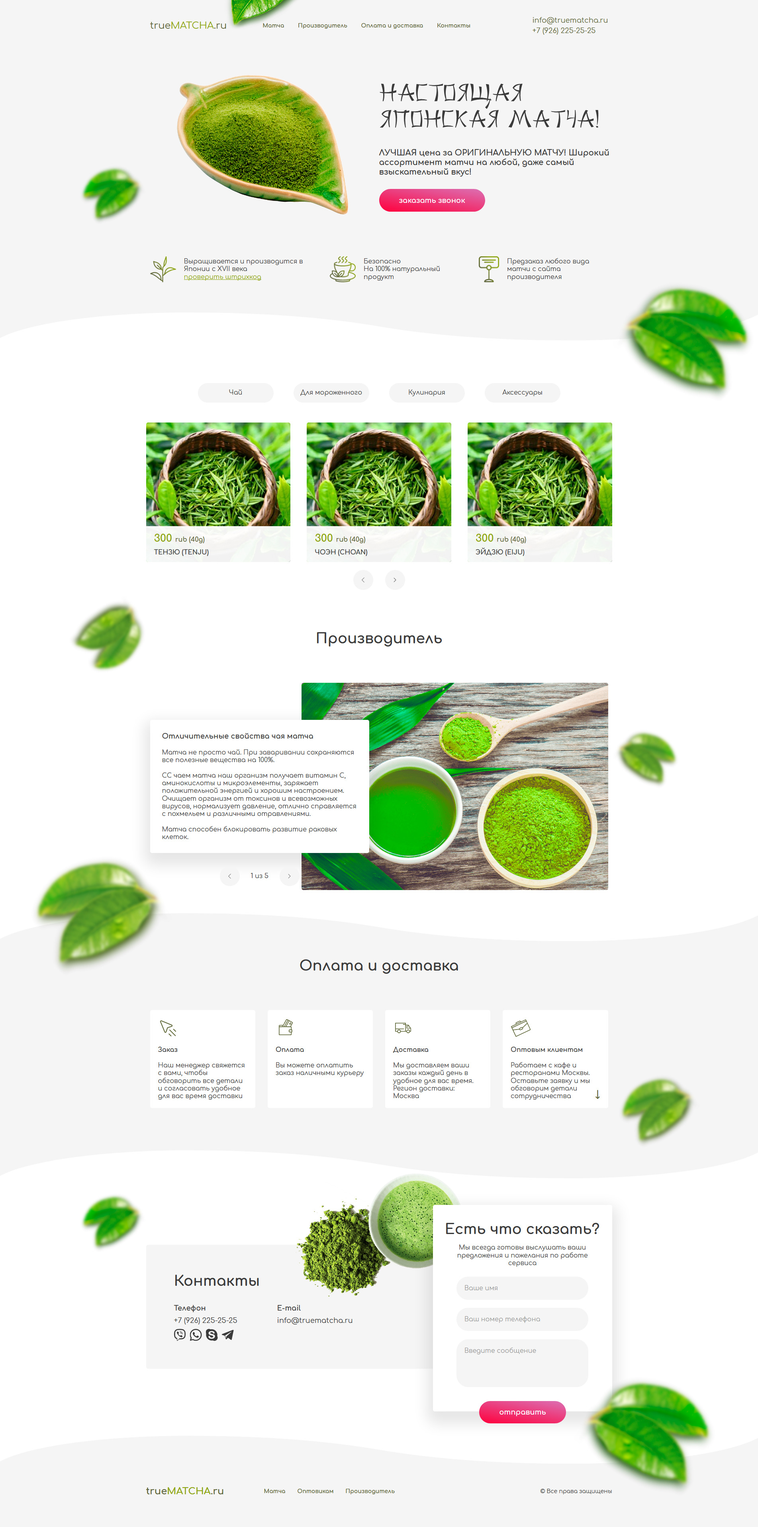
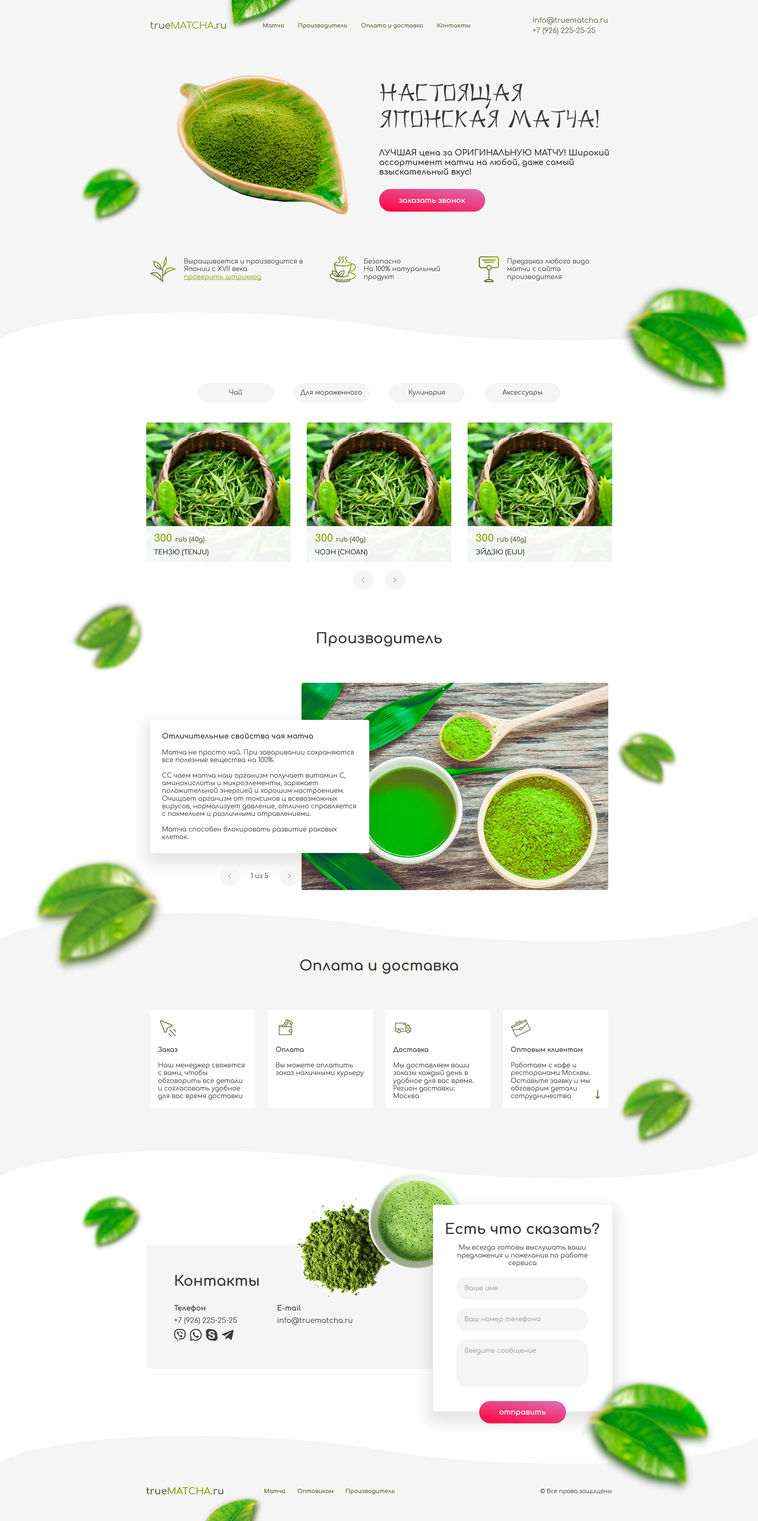
finish leafs

diff --git a/css/main.min.css b/css/main.min.css
@@ -1,1 +1,1 @@
-a,abbr,acronym,address,applet,article,aside,audio,b,big,blockquote,body,canvas,caption,center,cite,code,dd,del,details,dfn,div,dl,dt,em,embed,fieldset,figcaption,figure,footer,form,h1,h2,h3,h4,h5,h6,header,hgroup,html,i,iframe,img,ins,kbd,label,legend,li,mark,menu,nav,object,ol,output,p,pre,q,ruby,s,samp,section,small,span,strike,strong,sub,summary,sup,table,tbody,td,tfoot,th,thead,time,tr,tt,u,ul,var,video{margin:0;padding:0;border:0;font-size:100%;font:inherit;vertical-align:baseline}article,aside,details,figcaption,figure,footer,header,hgroup,menu,nav,section{display:block}body{line-height:1}ol,ul{list-style:none}blockquote,q{quotes:none}blockquote:after,blockquote:before,q:after,q:before{content:'';content:none}table{border-collapse:collapse;border-spacing:0}.clearfix::after{display:block;content:"";clear:both}button,input,select,textarea{outline:0}html{-webkit-box-sizing:border-box;box-sizing:border-box;-ms-overflow-style:scrollbar}*,::after,::before{-webkit-box-sizing:border-box;box-sizing:border-box}@-ms-viewport{width:device-width}@font-face{font-family:Comfortaa;font-style:normal;font-weight:400;src:url(../fonts/Comfortaa-Regular.ttf) format("truetype")}@font-face{font-family:Comfortaa;font-style:normal;font-weight:900;src:url(../fonts/Comfortaa-Bold.ttf) format("truetype")}@font-face{font-family:China;font-style:normal;font-weight:400;src:url(../fonts/China.ttf) format("truetype")}body{background:#fff;font-family:Comfortaa,Arial,sans-serif;font-size:16px;font-weight:400;line-height:1.2;color:#3b3b3b}.wrapper{max-width:2500px;min-width:360px;width:100%;overflow:hidden}.content{max-width:1170px;margin:0 auto;padding-left:10px;padding-right:10px}.container{width:100%}.separatop{height:85px;width:100%}.separatop.top{background:url(../images/border-sections-top.svg) center center no-repeat;background-size:cover}.separatop.bottom{background:url(../images/border-sections-bottom.svg) center center no-repeat;background-size:cover}.leaf{position:absolute;display:block}.leaf#l-01{top:-35px;left:195px;width:221px;height:109px;background:url(../images/leafs/01.png) center center no-repeat;background-size:cover}.leaf#l-02{bottom:80px;left:-168px;width:168px;height:149px;background:url(../images/leafs/02.png) center center no-repeat;background-size:cover}.leaf#l-03{bottom:-365px;right:-357px;width:357px;height:301px;background:url(../images/leafs/03.png) center center no-repeat;background-size:cover}.leaf#l-04{top:-35px;left:-194px;width:194px;height:193px;background:url(../images/leafs/04.png) center center no-repeat;background-size:cover}.leaf#l-05{top:300px;right:-168px;width:168px;height:149px;background:url(../images/leafs/05.png) center center no-repeat;background-size:cover}.leaf#l-06{bottom:-215px;left:-290px;width:356px;height:301px;background:url(../images/leafs/06.png) center center no-repeat;background-size:cover}.leaf#l-07{bottom:0;right:-220px;width:205px;height:184px;background:url(../images/leafs/07.png) center center no-repeat;background-size:cover}.leaf#l-08{top:-130px;left:-168px;width:168px;height:149px;background:url(../images/leafs/02.png) center center no-repeat;background-size:cover}.leaf#l-09{bottom:-320px;right:-260px;width:357px;height:301px;background:url(../images/leafs/03.png) center center no-repeat;background-size:cover}h1{font-family:China,Arial,sans-serif;font-weight:400;font-size:55px;color:#3b3b3b}h2{font-size:36px;color:#3b3b3b;font-weight:700;text-align:center}.button{display:inline-block;background-image:linear-gradient(10deg,#ff003c 0,#db71b4 100%);color:#fff;border-radius:50px;padding:18px 50px;font-size:18px;font-weight:700;cursor:pointer;-webkit-transition-duration:.2s;transition-duration:.2s}.button:hover{-webkit-box-shadow:0 17px 35px 14px rgba(0,0,0,.1);box-shadow:0 17px 35px 14px rgba(0,0,0,.1)}.arrow{width:50px;height:50px;background:#f5f5f5;border-radius:50%;cursor:pointer;-webkit-transition-duration:.2s;transition-duration:.2s;display:-webkit-box;display:-ms-flexbox;display:flex;-webkit-box-pack:center;-ms-flex-pack:center;justify-content:center;-webkit-box-align:center;-ms-flex-align:center;align-items:center}.arrow:hover{-webkit-box-shadow:0 17px 35px 14px rgba(0,0,0,.1);box-shadow:0 17px 35px 14px rgba(0,0,0,.1);background-image:linear-gradient(8deg,green 0,#58b52b 100%)}.arrow:hover svg path{fill:#fff}.arrow svg{width:12px}.arrow svg path{fill:#3b3b3b}#btn-menu{position:relative;display:none;-webkit-box-pack:center;-ms-flex-pack:center;justify-content:center;-webkit-box-orient:vertical;-webkit-box-direction:normal;-ms-flex-direction:column;flex-direction:column;-webkit-box-align:center;-ms-flex-align:center;align-items:center;background:#f5f5f5;border-radius:50%;cursor:pointer;-webkit-transition-duration:.2s;transition-duration:.2s}#btn-menu .line{width:30px;height:3px;background:#5e653a;margin-bottom:5px;-webkit-transition-duration:.2s;transition-duration:.2s}#btn-menu .line:last-child{margin-bottom:0}#btn-menu:hover .line{background:#8da511}header{background:#f5f5f5}header a{color:#5e653a;text-decoration:none}header .content{position:relative;display:-webkit-box;display:-ms-flexbox;display:flex;-webkit-box-pack:justify;-ms-flex-pack:justify;justify-content:space-between;-webkit-box-align:center;-ms-flex-align:center;align-items:center;padding-top:40px;padding-bottom:40px}header a.logo{font-size:24px;font-weight:70;color:#5e653a}header a.logo span{text-transform:uppercase;font-size:24px;color:#8da511}header nav.menu{display:block;width:100%;padding-left:90px}header nav.menu a{position:relative;margin-right:30px;font-size:14px;font-weight:700;color:#5e653a;-webkit-transition-duration:.2s;transition-duration:.2s}header nav.menu a:last-child{margin-right:0}header nav.menu a:before{-webkit-transition-duration:.2s;transition-duration:.2s;content:'';position:absolute;width:5px;height:5px;left:-10px;top:4px;border-radius:50%;background:0 0}header nav.menu a:hover{color:#8da511}header nav.menu a:hover:before{background:#8da511}header .contacts{font-size:18px;color:#5e653a}header .contacts p:first-child{margin-bottom:5px}#banner{background:#f5f5f5}#banner .content{position:relative;padding:60px 0 100px 0;display:-webkit-box;display:-ms-flexbox;display:flex;-webkit-box-pack:justify;-ms-flex-pack:justify;justify-content:space-between;-webkit-box-align:center;-ms-flex-align:center;align-items:center}#banner .content .banner-image,#banner .content .banner-text{width:50%}#banner .content .banner-image{text-align:center}#banner .content .banner-image img{height:350px}#banner .content .banner-text{color:#3b3b3b}#banner .content .banner-text .bt-title{margin-bottom:40px}#banner .content .banner-text .bt-lable{font-size:20px;font-weight:700;padding-bottom:30px;text-align:left}#banner .content .banner-text .bt-lable span{text-transform:uppercase}#worth{background:#f5f5f5;margin-bottom:-2px}#worth .content{padding-bottom:70px;display:-webkit-box;display:-ms-flexbox;display:flex;-webkit-box-pack:justify;-ms-flex-pack:justify;justify-content:space-between;-webkit-box-align:center;-ms-flex-align:center;align-items:center}#worth .content .w-col{display:-webkit-box;display:-ms-flexbox;display:flex;-webkit-box-align:center;-ms-flex-align:center;align-items:center;width:30%}#worth .content .w-col:first-child{width:35%}#worth .content .w-col:first-child .wc-img{margin-left:0}#worth .content .w-col .wc-img{width:65px;height:65px;margin:0 20px}#worth .content .w-col .wc-img img{display:block;height:100%}#worth .content .w-col .wc-text{font-size:16px;color:#3b3b3b}#worth .content .w-col .wc-text a{color:#8da511;-webkit-transition-duration:.2s;transition-duration:.2s}#worth .content .w-col .wc-text a:hover{color:#5e653a}#catalog{background:#fff}#catalog .content{padding:100px 0 50px 0}#catalog .catalog-btn-group{display:-webkit-box;display:-ms-flexbox;display:flex;-webkit-box-pack:center;-ms-flex-pack:center;justify-content:center;margin-bottom:50px}#catalog .catalog-btn-group .button{width:190px;padding:15px 0;font-size:16px;font-weight:400;color:#3b3b3b;background:#f5f5f5;margin-right:50px;text-align:center;-webkit-transition-duration:.2s;transition-duration:.2s}#catalog .catalog-btn-group .button:last-child{margin-right:0}#catalog .catalog-btn-group .button:hover{color:#fff;-webkit-transition-duration:.2s;transition-duration:.2s;background-image:linear-gradient(8deg,green 0,#58b52b 100%)}#catalog .catalog-content{display:-webkit-box;display:-ms-flexbox;display:flex;-webkit-box-pack:justify;-ms-flex-pack:justify;justify-content:space-between;-ms-flex-wrap:wrap;flex-wrap:wrap}#catalog .catalog-content .cc-item{position:relative;width:31%;height:350px;margin-bottom:20px;border-radius:5px;overflow:hidden;-webkit-transition-duration:.2s;transition-duration:.2s}#catalog .catalog-content .cc-item:hover{-webkit-box-shadow:0 17px 35px 14px rgba(0,0,0,.1);box-shadow:0 17px 35px 14px rgba(0,0,0,.1)}#catalog .catalog-content .cc-item:hover .cci-descriptoin{top:30%}#catalog .catalog-content .cc-item .cci-descriptoin{position:absolute;top:260px;bottom:auto;height:100%;width:100%;padding:15px 20px;-webkit-transition-duration:.2s;transition-duration:.2s;background:rgba(255,255,255,.95)}#catalog .catalog-content .cc-item .cci-descriptoin .price{font-size:26px;font-weight:700;color:#8da511;margin-bottom:10px}#catalog .catalog-content .cc-item .cci-descriptoin .price span{font-size:16px;color:#5e653a}#catalog .catalog-content .cc-item .cci-descriptoin .title{margin-bottom:15px;font-weight:700;text-transform:uppercase}#catalog .catalog-navigation{display:-webkit-box;display:-ms-flexbox;display:flex;-webkit-box-pack:center;-ms-flex-pack:center;justify-content:center}#catalog .catalog-navigation .arrow.left{margin-right:30px}#manufacture{background:#fff;padding-bottom:50px}#manufacture .content{position:relative;padding-top:50px}#manufacture h2{margin-bottom:90px}#manufacture .m-wrapper{position:relative;width:100%;height:520px}#manufacture .m-img{position:absolute;top:0;bottom:0;right:0;width:770px;background:url(../images/manufacture.png) center center no-repeat;background-size:cover;border-radius:5px;overflow:hidden}#manufacture .m-slider{position:absolute;top:0;bottom:0;left:0;width:550px;display:-webkit-box;display:-ms-flexbox;display:flex;-webkit-box-align:center;-ms-flex-align:center;align-items:center}#manufacture .m-slider .ms-item{width:100%;background:#fff;padding:30px;border-radius:5px;overflow:hidden;-webkit-transition-duration:.2s;transition-duration:.2s;-webkit-box-shadow:0 17px 35px 14px rgba(0,0,0,.1);box-shadow:0 17px 35px 14px rgba(0,0,0,.1)}#manufacture .m-slider .ms-item .title{font-size:18px;font-weight:700;margin-bottom:20px}#manufacture .m-slider .ms-item p{font-size:16px;margin-bottom:20px}#manufacture .m-slider .ms-item p:last-child{margin-bottom:0}#manufacture .m-slider .ms-btn-group{position:absolute;width:100%;bottom:0;left:0;right:0;display:-webkit-box;display:-ms-flexbox;display:flex;-webkit-box-pack:center;-ms-flex-pack:center;justify-content:center;-webkit-box-align:center;-ms-flex-align:center;align-items:center;padding-bottom:10px}#manufacture .m-slider .ms-btn-group #lable{width:100px;text-align:center}#payment{margin-top:-2px;margin-bottom:-2px;background:#f5f5f5}#payment .content{position:relative}#payment h2{padding:35px 0 90px 0}#payment .p-wrapper{padding-bottom:100px;display:-webkit-box;display:-ms-flexbox;display:flex;-webkit-box-pack:justify;-ms-flex-pack:justify;justify-content:space-between}#payment .p-wrapper .p-item{position:relative;width:23%;padding:20px;border-radius:5px;overflow:hidden;background:#fff;-webkit-transition-duration:.2s;transition-duration:.2s}#payment .p-wrapper .p-item p{font-weight:400}#payment .p-wrapper .p-item:hover{-webkit-box-shadow:0 17px 35px 14px rgba(0,0,0,.1);box-shadow:0 17px 35px 14px rgba(0,0,0,.1);color:#fff;background-image:linear-gradient(8deg,green 0,#58b52b 100%)}#payment .p-wrapper .p-item:hover .p-down{color:#fff}#payment .p-wrapper .p-item:hover .icon.order{background:url(../images/order-white.png) center center no-repeat;background-size:cover}#payment .p-wrapper .p-item:hover .icon.pay{background:url(../images/pay-white.png) center center no-repeat;background-size:cover}#payment .p-wrapper .p-item:hover .icon.delivery{background:url(../images/delivery-white.png) center center no-repeat;background-size:cover}#payment .p-wrapper .p-item:hover .icon.wholesale{background:url(../images/wholesale-white.png) center center no-repeat;background-size:cover}#payment .p-wrapper .p-item .icon{width:50px;height:50px;margin-bottom:20px;-webkit-transition-duration:.2s;transition-duration:.2s}#payment .p-wrapper .p-item .icon.order{background:url(../images/order.png) center center no-repeat;background-size:cover}#payment .p-wrapper .p-item .icon.pay{background:url(../images/pay.png) center center no-repeat;background-size:cover}#payment .p-wrapper .p-item .icon.delivery{background:url(../images/delivery.png) center center no-repeat;background-size:cover}#payment .p-wrapper .p-item .icon.wholesale{background:url(../images/wholesale.png) center center no-repeat;background-size:cover}#payment .p-wrapper .p-item .title{font-weight:700;margin-bottom:20px}#payment .p-wrapper .p-item .p-down{position:absolute;bottom:20px;right:20px;text-decoration:none;color:#5e653a;font-size:26px;-webkit-transition-duration:.2s;transition-duration:.2s}#contacts{padding:160px 0;background:#fff}#contacts .content{position:relative;padding:70px;background:#f5f5f5;border-radius:5px}#contacts h2{text-align:left;margin-bottom:35px}#contacts .contact-img{position:absolute;left:50%;top:-180px;-webkit-transform:translateX(-50%);transform:translateX(-50%);width:423px;height:313px;background:url(../images/contacts.png) center center no-repeat;background-size:cover}#contacts .con-wrapper{display:-webkit-box;display:-ms-flexbox;display:flex}#contacts .con-wrapper .cont-phone{margin-right:100px}#contacts .con-wrapper .cont-phone .social{display:-webkit-box;display:-ms-flexbox;display:flex}#contacts .con-wrapper .cont-phone .social a{display:block;width:30px;height:30px;margin-right:10px}#contacts .con-wrapper .cont-phone .social a:last-child{margin-right:0}#contacts .con-wrapper .cont-phone .social a:hover svg path{fill:#8da511}#contacts .con-wrapper .cont-phone .social a svg{width:100%;height:100%}#contacts .con-wrapper .cont-phone .social a svg path{-webkit-transition-duration:.2s;transition-duration:.2s;fill:#3b3b3b}#contacts .con-wrapper p{font-size:18px;color:#3b3b3b;margin-bottom:10px}#contacts .con-wrapper p span{font-weight:700}#contacts .con-wrapper p a{text-decoration:none;color:#3b3b3b;-webkit-transition-duration:.2s;transition-duration:.2s}#contacts .con-wrapper p a:hover{color:#8da511}#contacts .feedback{position:absolute;top:-100px;right:0;width:450px;background:#fff;border-radius:5px;padding:40px 30px;-webkit-box-shadow:0 17px 35px 14px rgba(0,0,0,.1);box-shadow:0 17px 35px 14px rgba(0,0,0,.1);text-align:center}#contacts .feedback h2{margin-bottom:15px}#contacts .feedback p{text-align:center;margin-bottom:25px}#contacts .feedback input,#contacts .feedback textarea{display:inline-block;width:85%;margin-bottom:20px;padding:20px;font-size:16px;font-family:Comfortaa,Arial,sans-serif;color:#3b3b3b;border-radius:30px;border:none;background:#f5f5f5}#contacts .feedback textarea{height:120px;resize:none}#contacts .feedback button{position:absolute;bottom:-30px;left:50%;-webkit-transform:translateX(-50%);transform:translateX(-50%);font-size:18px;font-weight:700;text-transform:lowercase;font-family:Comfortaa,Arial,sans-serif;border:none}footer{margin-top:-2px;background:#f5f5f5}footer .content{display:-webkit-box;display:-ms-flexbox;display:flex;-webkit-box-align:center;-ms-flex-align:center;align-items:center;padding:50px 0 75px 0}footer a.logo{text-decoration:none;color:#5e653a;font-size:24px;font-weight:700;margin-right:100px}footer a.logo span{color:#8da511;text-transform:uppercase}footer .menu{width:70%}footer .menu a{position:relative;text-decoration:none;color:#5e653a;-webkit-transition-duration:.2s;transition-duration:.2s;margin-right:25px;font-size:14px;font-weight:700}footer .menu a:hover{color:#8da511}footer .menu a:hover:before{background:#8da511}footer .menu a:before{-webkit-transition-duration:.2s;transition-duration:.2s;content:'';position:absolute;width:5px;height:5px;left:-10px;top:4px;border-radius:50%;background:0 0}footer p{display:block;width:300px;text-align:right;font-size:14px}@media (max-width:992px){.separatop{display:none}h2{font-size:30px}.leaf{display:none}header .content{padding-top:15px;padding-bottom:15px}header .contacts{display:none}header nav.menu{display:none;position:absolute;top:100%;left:0;right:0;padding:0;border-top:1px solid #d7d7d7;border-bottom:1px solid #d7d7d7;background:#fff;text-align:right}header nav.menu a{display:block;padding:20px;margin-right:0;padding-right:30px;font-size:18px;border-bottom:1px solid #f0f0f0}header nav.menu a:before{display:none}header nav.menu a:last-child{border-bottom:none}header #btn-menu{display:-webkit-box;display:-ms-flexbox;display:flex}#banner .content{display:block;padding:15px}#banner .content .banner-image{width:100%}#banner .content .banner-image img{height:200px}#banner .content .banner-text{width:100%;text-align:center;margin-bottom:15px}#banner .content .banner-text .bt-title{font-size:50px;margin:15px 0}#banner .content .banner-text .bt-lable{text-align:center;padding:0;margin-bottom:15px}#banner .content .button{padding:15px 30px}#worth .content{display:block;padding-bottom:15px}#worth .content .w-col{width:100%!important;margin-bottom:15px}#worth .content .w-col:last-child{margin-bottom:0}#worth .content .w-col .wc-img{margin:0;margin-right:20px}#worth .content .w-col .wc-img img{margin:0}#catalog .content{padding:15px;padding-top:25px}#catalog .content .catalog-btn-group{display:block;margin-bottom:15px}#catalog .content .catalog-btn-group .button{display:block;width:100%;text-align:center;margin:0;margin-bottom:10px}#catalog .content .catalog-content .cc-item{width:100%}#manufacture{padding:0}#manufacture .content{padding:15px 0 0 0}#manufacture .content h2{margin:10px 0}#manufacture .content .m-wrapper{padding:40px 15px;height:auto}#manufacture .content .m-wrapper .m-img{border-radius:0;width:100%;height:100%}#manufacture .content .m-wrapper .m-slider{display:block;position:relative;width:100%}#manufacture .content .m-wrapper .m-slider .ms-item{padding:15px}#manufacture .content .m-wrapper .m-slider .ms-btn-group{position:relative;padding:0;margin-top:15px}#manufacture .content .m-wrapper .m-slider .ms-btn-group #lable{font-weight:700;color:#fff}#payment .content{padding-top:25px;padding-bottom:15px}#payment .content h2{padding:0;margin-bottom:15px}#payment .content .p-wrapper{display:block;padding:0}#payment .content .p-wrapper .p-item{width:100%;padding:15px;margin-bottom:15px}#payment .content .p-wrapper .p-item .icon{margin-bottom:10px}#payment .content .p-wrapper .p-item .title{margin-bottom:10px}#contacts{padding:0}#contacts .content{padding:10px}#contacts .content h2{text-align:center;margin-bottom:20px}#contacts .content .contact-img{display:none}#contacts .content .con-wrapper{display:block}#contacts .content .con-wrapper .cont-phone{margin:0;margin-bottom:30px}#contacts .content .con-wrapper .email{margin-bottom:30px}#contacts .content .feedback{position:relative;top:0;width:100%;padding:15px}#contacts .content .feedback h2{margin-bottom:10px}#contacts .content .feedback p{margin-bottom:10px}#contacts .content .feedback input,#contacts .content .feedback textarea{width:100%;margin-bottom:15px;padding:15px}#contacts .content .feedback .button{padding:15px 30px}footer .content{padding-top:100px;padding-bottom:15px;display:block}footer .content a.logo{display:block;text-align:center;margin-right:0;margin-bottom:10px}footer .content .menu{display:none}footer .content p{width:100%;margin:0;text-align:center}}
+a,abbr,acronym,address,applet,article,aside,audio,b,big,blockquote,body,canvas,caption,center,cite,code,dd,del,details,dfn,div,dl,dt,em,embed,fieldset,figcaption,figure,footer,form,h1,h2,h3,h4,h5,h6,header,hgroup,html,i,iframe,img,ins,kbd,label,legend,li,mark,menu,nav,object,ol,output,p,pre,q,ruby,s,samp,section,small,span,strike,strong,sub,summary,sup,table,tbody,td,tfoot,th,thead,time,tr,tt,u,ul,var,video{margin:0;padding:0;border:0;font-size:100%;font:inherit;vertical-align:baseline}article,aside,details,figcaption,figure,footer,header,hgroup,menu,nav,section{display:block}body{line-height:1}ol,ul{list-style:none}blockquote,q{quotes:none}blockquote:after,blockquote:before,q:after,q:before{content:'';content:none}table{border-collapse:collapse;border-spacing:0}.clearfix::after{display:block;content:"";clear:both}button,input,select,textarea{outline:0}html{-webkit-box-sizing:border-box;box-sizing:border-box;-ms-overflow-style:scrollbar}*,::after,::before{-webkit-box-sizing:border-box;box-sizing:border-box}@-ms-viewport{width:device-width}@font-face{font-family:Comfortaa;font-style:normal;font-weight:400;src:url(../fonts/Comfortaa-Regular.ttf) format("truetype")}@font-face{font-family:Comfortaa;font-style:normal;font-weight:900;src:url(../fonts/Comfortaa-Bold.ttf) format("truetype")}@font-face{font-family:China;font-style:normal;font-weight:400;src:url(../fonts/China.ttf) format("truetype")}body{background:#fff;font-family:Comfortaa,Arial,sans-serif;font-size:16px;font-weight:400;line-height:1.2;color:#3b3b3b}.wrapper{max-width:2500px;min-width:360px;width:100%;overflow:hidden}.content{max-width:1170px;margin:0 auto;padding-left:10px;padding-right:10px}.container{width:100%}.separatop{height:85px;width:100%}.separatop.top{background:url(../images/border-sections-top.svg) center center no-repeat;background-size:cover}.separatop.bottom{background:url(../images/border-sections-bottom.svg) center center no-repeat;background-size:cover}.leaf{position:absolute;display:block}.leaf#l-01{top:-35px;left:195px;width:221px;height:109px;background:url(../images/leafs/01.png) center center no-repeat;background-size:cover}.leaf#l-02{bottom:80px;left:-168px;width:168px;height:149px;background:url(../images/leafs/02.png) center center no-repeat;background-size:cover}.leaf#l-03{bottom:-365px;right:-357px;width:357px;height:301px;background:url(../images/leafs/03.png) center center no-repeat;background-size:cover}.leaf#l-04{top:-35px;left:-194px;width:194px;height:193px;background:url(../images/leafs/04.png) center center no-repeat;background-size:cover}.leaf#l-05{top:300px;right:-168px;width:168px;height:149px;background:url(../images/leafs/05.png) center center no-repeat;background-size:cover}.leaf#l-06{bottom:-215px;left:-290px;width:356px;height:301px;background:url(../images/leafs/06.png) center center no-repeat;background-size:cover}.leaf#l-07{bottom:0;right:-220px;width:205px;height:184px;background:url(../images/leafs/07.png) center center no-repeat;background-size:cover}.leaf#l-08{top:-130px;left:-168px;width:168px;height:149px;background:url(../images/leafs/02.png) center center no-repeat;background-size:cover}.leaf#l-09{bottom:-320px;right:-260px;width:357px;height:301px;background:url(../images/leafs/03.png) center center no-repeat;background-size:cover}.leaf#l-10{bottom:0;left:145px;width:151px;height:64px;background:url(../images/leafs/08.png) center center no-repeat;background-size:cover}h1{font-family:China,Arial,sans-serif;font-weight:400;font-size:55px;color:#3b3b3b}h2{font-size:36px;color:#3b3b3b;font-weight:700;text-align:center}.button{display:inline-block;background-image:linear-gradient(10deg,#ff003c 0,#db71b4 100%);color:#fff;border-radius:50px;padding:18px 50px;font-size:18px;font-weight:700;cursor:pointer;-webkit-transition-duration:.2s;transition-duration:.2s}.button:hover{-webkit-box-shadow:0 17px 35px 14px rgba(0,0,0,.1);box-shadow:0 17px 35px 14px rgba(0,0,0,.1)}.arrow{width:50px;height:50px;background:#f5f5f5;border-radius:50%;cursor:pointer;-webkit-transition-duration:.2s;transition-duration:.2s;display:-webkit-box;display:-ms-flexbox;display:flex;-webkit-box-pack:center;-ms-flex-pack:center;justify-content:center;-webkit-box-align:center;-ms-flex-align:center;align-items:center}.arrow:hover{-webkit-box-shadow:0 17px 35px 14px rgba(0,0,0,.1);box-shadow:0 17px 35px 14px rgba(0,0,0,.1);background-image:linear-gradient(8deg,green 0,#58b52b 100%)}.arrow:hover svg path{fill:#fff}.arrow svg{width:12px}.arrow svg path{fill:#3b3b3b}#btn-menu{position:relative;display:none;-webkit-box-pack:center;-ms-flex-pack:center;justify-content:center;-webkit-box-orient:vertical;-webkit-box-direction:normal;-ms-flex-direction:column;flex-direction:column;-webkit-box-align:center;-ms-flex-align:center;align-items:center;background:#f5f5f5;border-radius:50%;cursor:pointer;-webkit-transition-duration:.2s;transition-duration:.2s}#btn-menu .line{width:30px;height:3px;background:#5e653a;margin-bottom:5px;-webkit-transition-duration:.2s;transition-duration:.2s}#btn-menu .line:last-child{margin-bottom:0}#btn-menu:hover .line{background:#8da511}header{background:#f5f5f5}header a{color:#5e653a;text-decoration:none}header .content{position:relative;display:-webkit-box;display:-ms-flexbox;display:flex;-webkit-box-pack:justify;-ms-flex-pack:justify;justify-content:space-between;-webkit-box-align:center;-ms-flex-align:center;align-items:center;padding-top:40px;padding-bottom:40px}header a.logo{font-size:24px;font-weight:70;color:#5e653a}header a.logo span{text-transform:uppercase;font-size:24px;color:#8da511}header nav.menu{display:block;width:100%;padding-left:90px}header nav.menu a{position:relative;margin-right:30px;font-size:14px;font-weight:700;color:#5e653a;-webkit-transition-duration:.2s;transition-duration:.2s}header nav.menu a:last-child{margin-right:0}header nav.menu a:before{-webkit-transition-duration:.2s;transition-duration:.2s;content:'';position:absolute;width:5px;height:5px;left:-10px;top:4px;border-radius:50%;background:0 0}header nav.menu a:hover{color:#8da511}header nav.menu a:hover:before{background:#8da511}header .contacts{font-size:18px;color:#5e653a}header .contacts p:first-child{margin-bottom:5px}#banner{background:#f5f5f5}#banner .content{position:relative;padding:60px 0 100px 0;display:-webkit-box;display:-ms-flexbox;display:flex;-webkit-box-pack:justify;-ms-flex-pack:justify;justify-content:space-between;-webkit-box-align:center;-ms-flex-align:center;align-items:center}#banner .content .banner-image,#banner .content .banner-text{width:50%}#banner .content .banner-image{text-align:center}#banner .content .banner-image img{height:350px}#banner .content .banner-text{color:#3b3b3b}#banner .content .banner-text .bt-title{margin-bottom:40px}#banner .content .banner-text .bt-lable{font-size:20px;font-weight:700;padding-bottom:30px;text-align:left}#banner .content .banner-text .bt-lable span{text-transform:uppercase}#worth{background:#f5f5f5;margin-bottom:-2px}#worth .content{padding-bottom:70px;display:-webkit-box;display:-ms-flexbox;display:flex;-webkit-box-pack:justify;-ms-flex-pack:justify;justify-content:space-between;-webkit-box-align:center;-ms-flex-align:center;align-items:center}#worth .content .w-col{display:-webkit-box;display:-ms-flexbox;display:flex;-webkit-box-align:center;-ms-flex-align:center;align-items:center;width:30%}#worth .content .w-col:first-child{width:35%}#worth .content .w-col:first-child .wc-img{margin-left:0}#worth .content .w-col .wc-img{width:65px;height:65px;margin:0 20px}#worth .content .w-col .wc-img img{display:block;height:100%}#worth .content .w-col .wc-text{font-size:16px;color:#3b3b3b}#worth .content .w-col .wc-text a{color:#8da511;-webkit-transition-duration:.2s;transition-duration:.2s}#worth .content .w-col .wc-text a:hover{color:#5e653a}#catalog{background:#fff}#catalog .content{padding:100px 0 50px 0}#catalog .catalog-btn-group{display:-webkit-box;display:-ms-flexbox;display:flex;-webkit-box-pack:center;-ms-flex-pack:center;justify-content:center;margin-bottom:50px}#catalog .catalog-btn-group .button{width:190px;padding:15px 0;font-size:16px;font-weight:400;color:#3b3b3b;background:#f5f5f5;margin-right:50px;text-align:center;-webkit-transition-duration:.2s;transition-duration:.2s}#catalog .catalog-btn-group .button:last-child{margin-right:0}#catalog .catalog-btn-group .button:hover{color:#fff;-webkit-transition-duration:.2s;transition-duration:.2s;background-image:linear-gradient(8deg,green 0,#58b52b 100%)}#catalog .catalog-content{display:-webkit-box;display:-ms-flexbox;display:flex;-webkit-box-pack:justify;-ms-flex-pack:justify;justify-content:space-between;-ms-flex-wrap:wrap;flex-wrap:wrap}#catalog .catalog-content .cc-item{position:relative;width:31%;height:350px;margin-bottom:20px;border-radius:5px;overflow:hidden;-webkit-transition-duration:.2s;transition-duration:.2s}#catalog .catalog-content .cc-item:hover{-webkit-box-shadow:0 17px 35px 14px rgba(0,0,0,.1);box-shadow:0 17px 35px 14px rgba(0,0,0,.1)}#catalog .catalog-content .cc-item:hover .cci-descriptoin{top:30%}#catalog .catalog-content .cc-item .cci-descriptoin{position:absolute;top:260px;bottom:auto;height:100%;width:100%;padding:15px 20px;-webkit-transition-duration:.2s;transition-duration:.2s;background:rgba(255,255,255,.95)}#catalog .catalog-content .cc-item .cci-descriptoin .price{font-size:26px;font-weight:700;color:#8da511;margin-bottom:10px}#catalog .catalog-content .cc-item .cci-descriptoin .price span{font-size:16px;color:#5e653a}#catalog .catalog-content .cc-item .cci-descriptoin .title{margin-bottom:15px;font-weight:700;text-transform:uppercase}#catalog .catalog-navigation{display:-webkit-box;display:-ms-flexbox;display:flex;-webkit-box-pack:center;-ms-flex-pack:center;justify-content:center}#catalog .catalog-navigation .arrow.left{margin-right:30px}#manufacture{background:#fff;padding-bottom:50px}#manufacture .content{position:relative;padding-top:50px}#manufacture h2{margin-bottom:90px}#manufacture .m-wrapper{position:relative;width:100%;height:520px}#manufacture .m-img{position:absolute;top:0;bottom:0;right:0;width:770px;background:url(../images/manufacture.png) center center no-repeat;background-size:cover;border-radius:5px;overflow:hidden}#manufacture .m-slider{position:absolute;top:0;bottom:0;left:0;width:550px;display:-webkit-box;display:-ms-flexbox;display:flex;-webkit-box-align:center;-ms-flex-align:center;align-items:center}#manufacture .m-slider .ms-item{width:100%;background:#fff;padding:30px;border-radius:5px;overflow:hidden;-webkit-transition-duration:.2s;transition-duration:.2s;-webkit-box-shadow:0 17px 35px 14px rgba(0,0,0,.1);box-shadow:0 17px 35px 14px rgba(0,0,0,.1)}#manufacture .m-slider .ms-item .title{font-size:18px;font-weight:700;margin-bottom:20px}#manufacture .m-slider .ms-item p{font-size:16px;margin-bottom:20px}#manufacture .m-slider .ms-item p:last-child{margin-bottom:0}#manufacture .m-slider .ms-btn-group{position:absolute;width:100%;bottom:0;left:0;right:0;display:-webkit-box;display:-ms-flexbox;display:flex;-webkit-box-pack:center;-ms-flex-pack:center;justify-content:center;-webkit-box-align:center;-ms-flex-align:center;align-items:center;padding-bottom:10px}#manufacture .m-slider .ms-btn-group #lable{width:100px;text-align:center}#payment{margin-top:-2px;margin-bottom:-2px;background:#f5f5f5}#payment .content{position:relative}#payment h2{padding:35px 0 90px 0}#payment .p-wrapper{padding-bottom:100px;display:-webkit-box;display:-ms-flexbox;display:flex;-webkit-box-pack:justify;-ms-flex-pack:justify;justify-content:space-between}#payment .p-wrapper .p-item{position:relative;width:23%;padding:20px;border-radius:5px;overflow:hidden;background:#fff;-webkit-transition-duration:.2s;transition-duration:.2s}#payment .p-wrapper .p-item p{font-weight:400}#payment .p-wrapper .p-item:hover{-webkit-box-shadow:0 17px 35px 14px rgba(0,0,0,.1);box-shadow:0 17px 35px 14px rgba(0,0,0,.1);color:#fff;background-image:linear-gradient(8deg,green 0,#58b52b 100%)}#payment .p-wrapper .p-item:hover .p-down{color:#fff}#payment .p-wrapper .p-item:hover .icon.order{background:url(../images/order-white.png) center center no-repeat;background-size:cover}#payment .p-wrapper .p-item:hover .icon.pay{background:url(../images/pay-white.png) center center no-repeat;background-size:cover}#payment .p-wrapper .p-item:hover .icon.delivery{background:url(../images/delivery-white.png) center center no-repeat;background-size:cover}#payment .p-wrapper .p-item:hover .icon.wholesale{background:url(../images/wholesale-white.png) center center no-repeat;background-size:cover}#payment .p-wrapper .p-item .icon{width:50px;height:50px;margin-bottom:20px;-webkit-transition-duration:.2s;transition-duration:.2s}#payment .p-wrapper .p-item .icon.order{background:url(../images/order.png) center center no-repeat;background-size:cover}#payment .p-wrapper .p-item .icon.pay{background:url(../images/pay.png) center center no-repeat;background-size:cover}#payment .p-wrapper .p-item .icon.delivery{background:url(../images/delivery.png) center center no-repeat;background-size:cover}#payment .p-wrapper .p-item .icon.wholesale{background:url(../images/wholesale.png) center center no-repeat;background-size:cover}#payment .p-wrapper .p-item .title{font-weight:700;margin-bottom:20px}#payment .p-wrapper .p-item .p-down{position:absolute;bottom:20px;right:20px;text-decoration:none;color:#5e653a;font-size:26px;-webkit-transition-duration:.2s;transition-duration:.2s}#contacts{padding:160px 0;background:#fff}#contacts .content{position:relative;padding:70px;background:#f5f5f5;border-radius:5px}#contacts h2{text-align:left;margin-bottom:35px}#contacts .contact-img{position:absolute;left:50%;top:-180px;-webkit-transform:translateX(-50%);transform:translateX(-50%);width:423px;height:313px;background:url(../images/contacts.png) center center no-repeat;background-size:cover}#contacts .con-wrapper{display:-webkit-box;display:-ms-flexbox;display:flex}#contacts .con-wrapper .cont-phone{margin-right:100px}#contacts .con-wrapper .cont-phone .social{display:-webkit-box;display:-ms-flexbox;display:flex}#contacts .con-wrapper .cont-phone .social a{display:block;width:30px;height:30px;margin-right:10px}#contacts .con-wrapper .cont-phone .social a:last-child{margin-right:0}#contacts .con-wrapper .cont-phone .social a:hover svg path{fill:#8da511}#contacts .con-wrapper .cont-phone .social a svg{width:100%;height:100%}#contacts .con-wrapper .cont-phone .social a svg path{-webkit-transition-duration:.2s;transition-duration:.2s;fill:#3b3b3b}#contacts .con-wrapper p{font-size:18px;color:#3b3b3b;margin-bottom:10px}#contacts .con-wrapper p span{font-weight:700}#contacts .con-wrapper p a{text-decoration:none;color:#3b3b3b;-webkit-transition-duration:.2s;transition-duration:.2s}#contacts .con-wrapper p a:hover{color:#8da511}#contacts .feedback{position:absolute;top:-100px;right:0;width:450px;background:#fff;border-radius:5px;padding:40px 30px;-webkit-box-shadow:0 17px 35px 14px rgba(0,0,0,.1);box-shadow:0 17px 35px 14px rgba(0,0,0,.1);text-align:center}#contacts .feedback h2{margin-bottom:15px}#contacts .feedback p{text-align:center;margin-bottom:25px}#contacts .feedback input,#contacts .feedback textarea{display:inline-block;width:85%;margin-bottom:20px;padding:20px;font-size:16px;font-family:Comfortaa,Arial,sans-serif;color:#3b3b3b;border-radius:30px;border:none;background:#f5f5f5}#contacts .feedback textarea{height:120px;resize:none}#contacts .feedback button{position:absolute;bottom:-30px;left:50%;-webkit-transform:translateX(-50%);transform:translateX(-50%);font-size:18px;font-weight:700;text-transform:lowercase;font-family:Comfortaa,Arial,sans-serif;border:none}footer{margin-top:-2px;background:#f5f5f5}footer .content{position:relative;display:-webkit-box;display:-ms-flexbox;display:flex;-webkit-box-align:center;-ms-flex-align:center;align-items:center;padding:50px 0 60px 0}footer a.logo{text-decoration:none;color:#5e653a;font-size:24px;font-weight:700;margin-right:100px}footer a.logo span{color:#8da511;text-transform:uppercase}footer .menu{width:70%}footer .menu a{position:relative;text-decoration:none;color:#5e653a;-webkit-transition-duration:.2s;transition-duration:.2s;margin-right:25px;font-size:14px;font-weight:700}footer .menu a:hover{color:#8da511}footer .menu a:hover:before{background:#8da511}footer .menu a:before{-webkit-transition-duration:.2s;transition-duration:.2s;content:'';position:absolute;width:5px;height:5px;left:-10px;top:4px;border-radius:50%;background:0 0}footer p{display:block;width:300px;text-align:right;font-size:14px}@media (max-width:992px){.separatop{display:none}h2{font-size:30px}.leaf{display:none}header .content{padding-top:15px;padding-bottom:15px}header .contacts{display:none}header nav.menu{display:none;position:absolute;top:100%;left:0;right:0;padding:0;border-top:1px solid #d7d7d7;border-bottom:1px solid #d7d7d7;background:#fff;text-align:right}header nav.menu a{display:block;padding:20px;margin-right:0;padding-right:30px;font-size:18px;border-bottom:1px solid #f0f0f0}header nav.menu a:before{display:none}header nav.menu a:last-child{border-bottom:none}header #btn-menu{display:-webkit-box;display:-ms-flexbox;display:flex}#banner .content{display:block;padding:15px}#banner .content .banner-image{width:100%}#banner .content .banner-image img{height:200px}#banner .content .banner-text{width:100%;text-align:center;margin-bottom:15px}#banner .content .banner-text .bt-title{font-size:50px;margin:15px 0}#banner .content .banner-text .bt-lable{text-align:center;padding:0;margin-bottom:15px}#banner .content .button{padding:15px 30px}#worth .content{display:block;padding-bottom:15px}#worth .content .w-col{width:100%!important;margin-bottom:15px}#worth .content .w-col:last-child{margin-bottom:0}#worth .content .w-col .wc-img{margin:0;margin-right:20px}#worth .content .w-col .wc-img img{margin:0}#catalog .content{padding:15px;padding-top:25px}#catalog .content .catalog-btn-group{display:block;margin-bottom:15px}#catalog .content .catalog-btn-group .button{display:block;width:100%;text-align:center;margin:0;margin-bottom:10px}#catalog .content .catalog-content .cc-item{width:100%}#manufacture{padding:0}#manufacture .content{padding:15px 0 0 0}#manufacture .content h2{margin:10px 0}#manufacture .content .m-wrapper{padding:40px 15px;height:auto}#manufacture .content .m-wrapper .m-img{border-radius:0;width:100%;height:100%}#manufacture .content .m-wrapper .m-slider{display:block;position:relative;width:100%}#manufacture .content .m-wrapper .m-slider .ms-item{padding:15px}#manufacture .content .m-wrapper .m-slider .ms-btn-group{position:relative;padding:0;margin-top:15px}#manufacture .content .m-wrapper .m-slider .ms-btn-group #lable{font-weight:700;color:#fff}#payment .content{padding-top:25px;padding-bottom:15px}#payment .content h2{padding:0;margin-bottom:15px}#payment .content .p-wrapper{display:block;padding:0}#payment .content .p-wrapper .p-item{width:100%;padding:15px;margin-bottom:15px}#payment .content .p-wrapper .p-item .icon{margin-bottom:10px}#payment .content .p-wrapper .p-item .title{margin-bottom:10px}#contacts{padding:0}#contacts .content{padding:10px}#contacts .content h2{text-align:center;margin-bottom:20px}#contacts .content .contact-img{display:none}#contacts .content .con-wrapper{display:block}#contacts .content .con-wrapper .cont-phone{margin:0;margin-bottom:30px}#contacts .content .con-wrapper .email{margin-bottom:30px}#contacts .content .feedback{position:relative;top:0;width:100%;padding:15px}#contacts .content .feedback h2{margin-bottom:10px}#contacts .content .feedback p{margin-bottom:10px}#contacts .content .feedback input,#contacts .content .feedback textarea{width:100%;margin-bottom:15px;padding:15px}#contacts .content .feedback .button{padding:15px 30px}footer .content{padding-top:100px;padding-bottom:15px;display:block}footer .content a.logo{display:block;text-align:center;margin-right:0;margin-bottom:10px}footer .content .menu{display:none}footer .content p{width:100%;margin:0;text-align:center}}

diff --git a/css/main.css b/css/main.css
@@ -215,6 +215,14 @@ body {
   background: url("../images/leafs/03.png") center center no-repeat;
   background-size: cover;
 }
+.leaf#l-10 {
+  bottom: 0px;
+  left: 145px;
+  width: 151px;
+  height: 64px;
+  background: url("../images/leafs/08.png") center center no-repeat;
+  background-size: cover;
+}
 
 h1 {
   font-family: "China", "Arial", sans-serif;
@@ -903,13 +911,14 @@ footer {
   background: #f5f5f5;
 }
 footer .content {
+  position: relative;
   display: -webkit-box;
   display: -ms-flexbox;
   display: flex;
   -webkit-box-align: center;
       -ms-flex-align: center;
           align-items: center;
-  padding: 50px 0 75px 0;
+  padding: 50px 0 60px 0;
 }
 footer a.logo {
   text-decoration: none;

diff --git a/scss/main.scss b/scss/main.scss
@@ -142,6 +142,15 @@ body {
 		background: url('../images/leafs/03.png') center center no-repeat;
 		background-size: cover;
 	}
+
+	&#l-10 {
+		bottom: 0px;
+		left: 145px;
+		width: 151px;
+		height: 64px;
+		background: url('../images/leafs/08.png') center center no-repeat;
+		background-size: cover;
+	}
 }
 
 
@@ -825,9 +834,10 @@ footer {
 	background: $back02;
 
 	.content {
+		position: relative;
 		display: flex;
 		align-items: center;
-		padding: 50px 0 75px 0;
+		padding: 50px 0 60px 0;
 	}
 
 	a.logo {

diff --git a/index.html b/index.html
@@ -394,7 +394,7 @@
                 </div>
 
                 <div id="l-09" class="leaf"></div>
-                
+
             </div>
         </section>
         
@@ -411,6 +411,8 @@
                 </nav>
 
                 <p>&copy; Все права защищены</p>
+
+                <div id="l-10" class="leaf"></div>
 
             </div>
         </footer>
